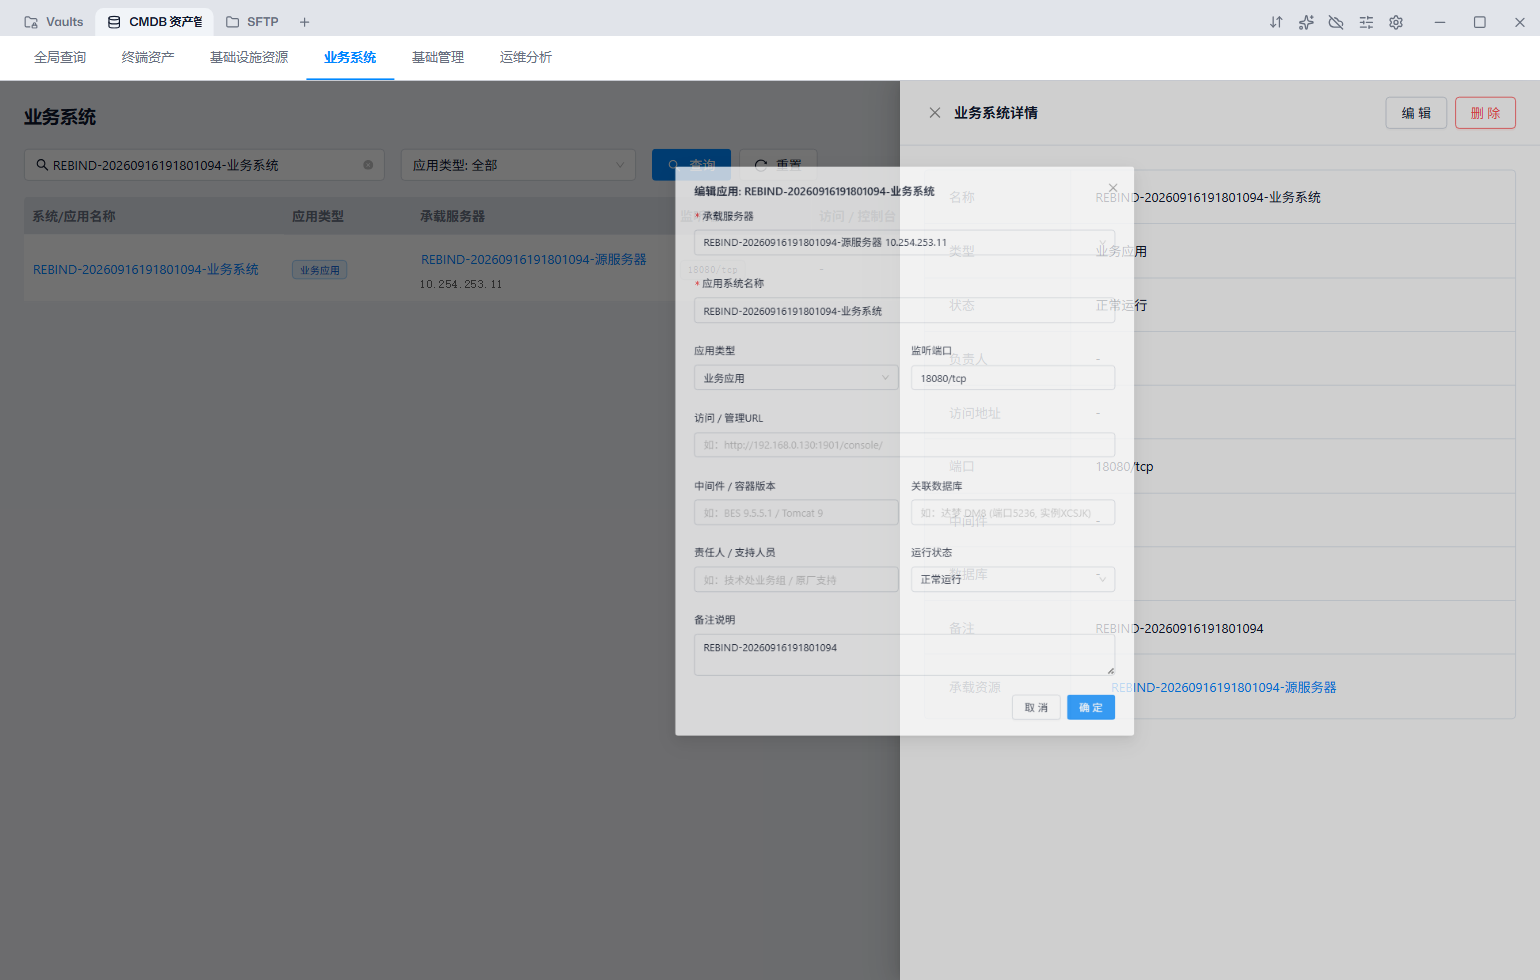
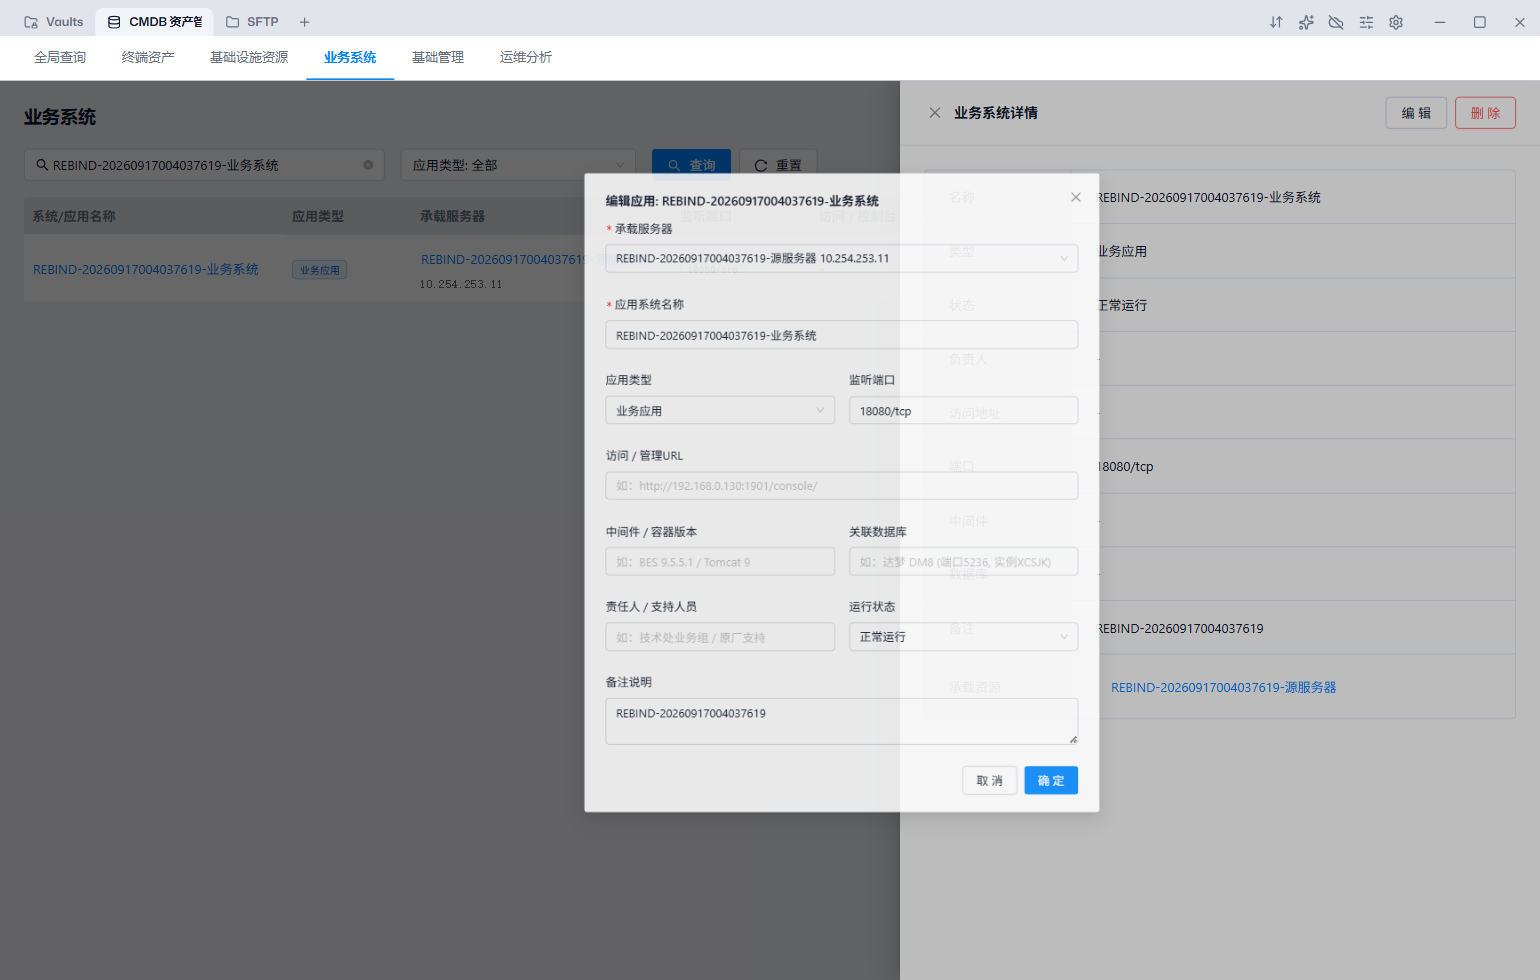
build(netcatty): pin integration to release v1.1.83

diff --git a/docs/Netcatty原生CMDB-验收记录.md b/docs/Netcatty原生CMDB-验收记录.md
@@ -22,16 +22,16 @@ CMDB 内部一级入口固定为：
 | `go test ./...` | 退出码 0；根包、`internal`、`internal/store` 全部通过 |
 | `node --test integrations/netcatty/electron/cmdbService.test.cjs integrations/netcatty/electron/cmdbBridge.test.cjs web/src/cmdbTransport.test.js web/src/cmdbWorkspaceState.test.js` | 退出码 0；35 项通过，0 失败 |
 | `web/` 下执行 `npm.cmd run build` | 退出码 0；Vite 转换 3064 个模块并生成 `web/dist` |
-| 在全新锁定上游副本执行 `node scripts/prepare-netcatty.mjs --target build/netcatty-native-final-validation` | 退出码 0；装配成功 |
+| 在全新 `v1.1.83` Release 副本执行 `node scripts/prepare-netcatty.mjs --target build/netcatty-native-release-v1.1.83-validation` | 退出码 0；装配成功 |
 | 装配后执行 `node --test electron/cmdbService.test.cjs electron/bridges/cmdbBridge.test.cjs` | 退出码 0；16 项通过，0 失败 |
 | 装配后执行 `npm.cmd run lint` | 退出码 0；无 ESLint 错误 |
-| 装配后执行 `npm.cmd run build` | 退出码 0；Vite 完整构建成功 |
+| 装配后执行 `npm.cmd run build` | 退出码 0；Vite 转换 8015 个模块并完成构建 |
 | `git diff --check` | 退出码 0 |
 | Playwright 驱动真实 Electron 窗口执行原生写流程 | 退出码 0；6 组流程通过，页面异常 0；结果见 [原生写流程结果](acceptance/netcatty-native-cmdb/native-workflow-results.json) |
 | Playwright 驱动真实 Electron 窗口执行业务系统改绑 | 退出码 0；承载服务器由 ID 4 改绑到 ID 5，IPC 回读一致，页面异常 0；结果见 [业务系统改绑结果](acceptance/netcatty-native-cmdb/native-app-rebind-results.json) |
 | Electron unpacked 资源入包检查 | `release/win-unpacked/resources/cmdb/cmdb-server.exe` 已生成；与源文件长度及 SHA-256 完全一致；打包内二进制健康检查返回 `ok`，结果见 [unpacked 资源结果](acceptance/netcatty-native-cmdb/native-unpacked-resource-results.json) |
 
-全新上游副本固定在提交 `c16f0c43d4ac8cf9377e330b8fb440cec630aeda`。装配后存在 `components/cmdb/CmdbWorkspace.jsx`、`electron/cmdbService.cjs` 和 `electron/bridges/cmdbBridge.cjs`，不存在 `examples/plugins/cmdb-netcatty`。
+全新上游副本固定在仓库正式 Release `v1.1.83`，标签实际指向提交 `d7a0c8ed8d238dcf1c82d786da53037a1f1496b1`。装配后存在 `components/cmdb/CmdbWorkspace.jsx`、`electron/cmdbService.cjs` 和 `electron/bridges/cmdbBridge.cjs`，不存在 `examples/plugins/cmdb-netcatty`。
 
 Netcatty 构建输出包含上游既有的 `diagnostics_channel` 浏览器兼容性提示、动态/静态导入提示和大 chunk 提示；构建最终退出码为 0。
 
@@ -61,7 +61,7 @@ Netcatty 构建输出包含上游既有的 `diagnostics_channel` 浏览器兼容
 
 写流程验收使用从 `workspace-test.db` 复制出的独立数据库。桌面端新增两名验收人员和一台终端资产，实际提交编辑、调换使用人、维修换件、人员资产交接、IP 补录/分配/释放和注销归档，并通过 `window.netcatty` preload API 回读数据库状态。维修后确认旧件入库，注销后确认资产资料仍可读取且调换、维修、注销履历均保留。导出流程实际到达 Electron 原生保存对话框并取消，没有在测试机留下导出文件。
 
-业务系统改绑使用另一份独立数据库：通过 Electron 窗口创建两台测试服务器和一个业务系统，在业务系统详情中打开编辑弹窗，将承载服务器从 ID 4 改为 ID 5，保存后通过 preload IPC 回读 `server_id=5`。测试同时确认编辑字段可见、成功提示出现且页面异常为空。
+业务系统改绑使用另一份独立数据库，并在 `v1.1.83` Release 装配副本的真实 Electron 窗口中执行：创建两台测试服务器和一个业务系统，在业务系统详情中打开编辑弹窗，将承载服务器从 ID 4 改为 ID 5，保存后通过 preload IPC 回读 `server_id=5`。测试同时确认编辑字段可见、成功提示出现且页面异常为空。
 
 ## 空白页问题与修复
 
@@ -73,9 +73,9 @@ Netcatty 构建输出包含上游既有的 `diagnostics_channel` 浏览器兼容
 
 ## 安装环境限制
 
-在全新锁定上游副本 `build/netcatty-native-install-validation-20260917` 重新执行 `npm.cmd install` 时，`node-pty` 原生模块重建失败，Visual Studio 报 `MSB8040`：缺少 Spectre 缓解库。该问题属于当前机器的 C++ 工具链组件缺失，本轮没有修改或掩盖该失败。
+在真正的短路径全新 Release 副本 `C:\Users\Administrator\AppData\Local\Temp\netcatty-v1183-cmdb-validation` 重新执行标准 `npm.cmd install` 时，`node-pty` 原生模块重建稳定失败，Visual Studio 报 `MSB8040`：缺少 Spectre 缓解库。该问题属于当前机器的 C++ 工具链组件缺失，本轮没有修改或掩盖该失败。仓库内长路径副本还会更早触发 `MSB3491`，因此短路径复测用于排除路径因素。
 
-npm 11 还会默认阻止 Electron 安装脚本。桌面验收使用本机 Electron 42.3.3 缓存恢复运行时，并复用已存在的依赖树完成 lint、build 和原生窗口验证；未把全新安装记录为成功。
+npm 11 还会默认阻止 Electron 安装脚本。Release 装配验证使用 `npm.cmd install --ignore-scripts` 安装依赖，并从此前已验证的本机缓存复制 Electron 42.3.3 运行时，仅用于 lint、build 和真实窗口验收；未把该过程记录为标准安装成功。安装过程另报告 50 个上游依赖审计项：10 low、11 moderate、26 high、3 critical，本轮未执行 `npm audit fix`。
 
 同一全新装配副本执行 `npm.cmd ci` 会在安装前拒绝运行，因为装配器向 `package.json` 增加了 antd 等依赖，但锁定上游的 `package-lock.json` 尚未包含这些依赖；当前装配流程仍以计划规定的 `npm.cmd install` 为准。
 

diff --git a/docs/superpowers/plans/2026-09-16-netcatty-native-cmdb.md b/docs/superpowers/plans/2026-09-16-netcatty-native-cmdb.md
@@ -673,12 +673,12 @@ cmdbExportFile: (payload) => ipcRenderer.invoke("netcatty:cmdb:export-file", pay
 
 `package.json` 增加 `antd`、`@ant-design/icons`、`@ant-design/v5-patch-for-react-19`、`dayjs`；`electron-builder.config.cjs` 只增加 `cmdb-server`。删除 `cmdb-netcatty.ncpkg` 和 CMDB 插件 workspace 构建逻辑。
 
-- [ ] **步骤 7：在全新锁定上游装配并验证**
+- [ ] **步骤 7：在全新上游 Release 装配并验证**
 
 ```powershell
 git clone https://github.com/binaricat/Netcatty.git build/netcatty-native-validation
 Set-Location build/netcatty-native-validation
-git checkout c16f0c43d4ac8cf9377e330b8fb440cec630aeda
+git checkout v1.1.83
 Set-Location ../..
 node scripts/prepare-netcatty.mjs --target build/netcatty-native-validation
 Set-Location build/netcatty-native-validation

diff --git a/integrations/netcatty/README.md b/integrations/netcatty/README.md
@@ -2,7 +2,7 @@
 
 该目录保存 Netcatty-CMDB 对上游 Netcatty 的最小集成代码，不保存上游完整源码。
 
-- `upstream.json`：锁定经过 CI 验证的上游仓库和提交。
+- `upstream.json`：锁定经过验证的上游仓库 Release 标签及其实际提交。
 - `electron/`：启动、健康检查和回收 `cmdb-server`，并注册 CMDB IPC bridge 的主进程模块。
 - `../../web/src/`：作为 Netcatty 原生根工作区装配到 `components/cmdb/` 的 React + Ant Design 5 源码。
 - `../../scripts/prepare-netcatty.mjs`：将上述内容注入干净的上游源码。
